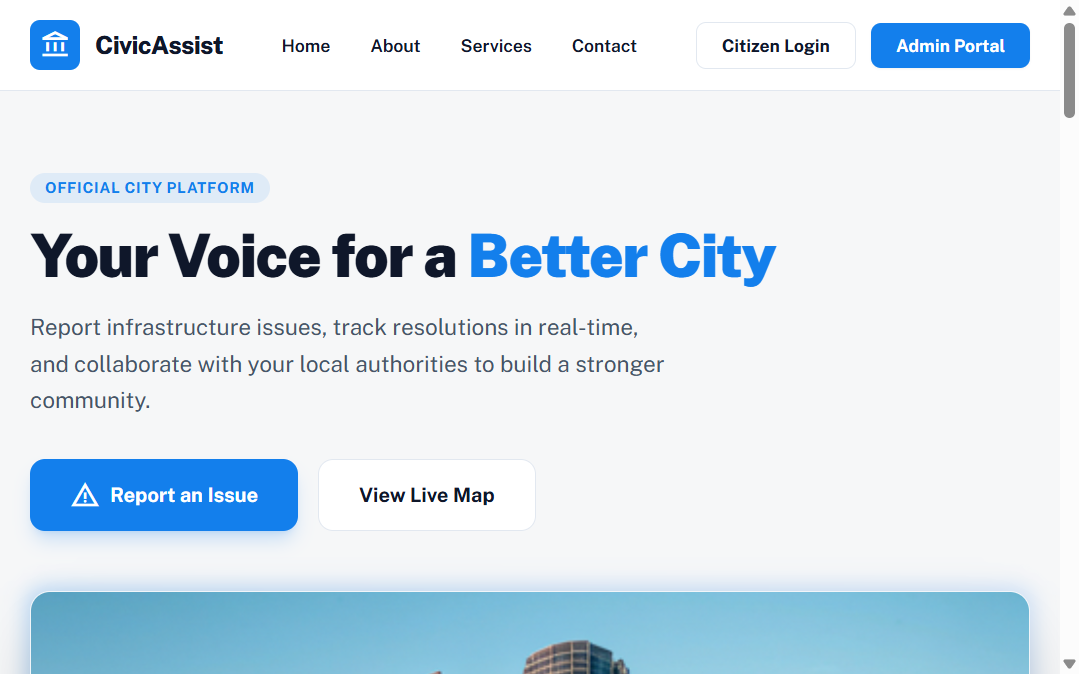
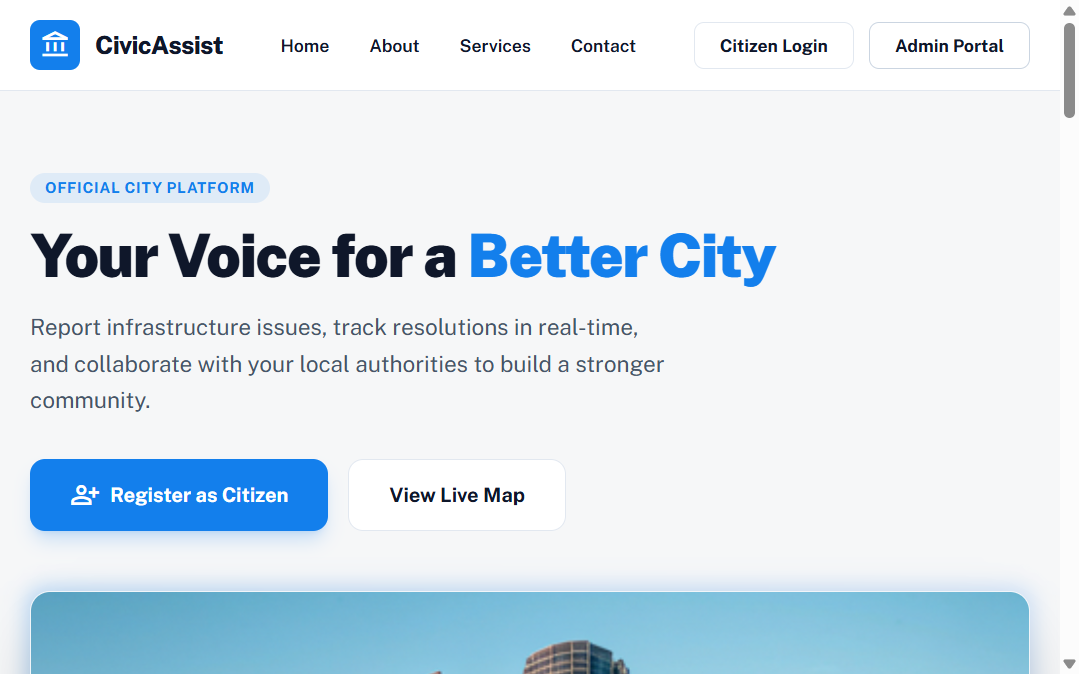
Refresh screenshots for all main pages

diff --git a/README.md b/README.md
@@ -81,7 +81,7 @@ The project also integrates AI-based NLP techniques for analyzing user feedback 
 ---
 
 # 🖼 Screenshots
-The screenshots below are current application captures with consistent landscape framing (1079 x 674). The `complaint-form.png` capture shows the citizen registration page.
+The screenshots below show the main application pages in consistent landscape framing (1079 x 674). Dashboard and management views use fictional sample data.
 
 <table style="width:100%; table-layout:fixed;">
   <tr>
@@ -90,8 +90,18 @@ The screenshots below are current application captures with consistent landscape
       <p style="text-align:center; font-size:0.95rem; margin:8px 0 0;">Homepage</p>
     </td>
     <td style="padding:8px; vertical-align:top; width:50%;">
-      <img src="screenshots/complaint-form.png" alt="Citizen Registration" width="100%" />
+      <img src="screenshots/citizen-register.png" alt="Citizen Registration" width="100%" />
       <p style="text-align:center; font-size:0.95rem; margin:8px 0 0;">Citizen Registration</p>
+    </td>
+  </tr>
+  <tr>
+    <td style="padding:8px; vertical-align:top; width:50%;">
+      <img src="screenshots/citizen-login.png" alt="Citizen Login" width="100%" />
+      <p style="text-align:center; font-size:0.95rem; margin:8px 0 0;">Citizen Login</p>
+    </td>
+    <td style="padding:8px; vertical-align:top; width:50%;">
+      <img src="screenshots/citizen-dashboard.png" alt="Citizen Dashboard" width="100%" />
+      <p style="text-align:center; font-size:0.95rem; margin:8px 0 0;">Citizen Dashboard</p>
     </td>
   </tr>
   <tr>
@@ -100,9 +110,46 @@ The screenshots below are current application captures with consistent landscape
       <p style="text-align:center; font-size:0.95rem; margin:8px 0 0;">Admin Login</p>
     </td>
     <td style="padding:8px; vertical-align:top; width:50%;">
-      <img src="screenshots/admin-registration.png" alt="Admin Registration" width="100%" />
+      <img src="screenshots/admin-register.png" alt="Admin Registration" width="100%" />
       <p style="text-align:center; font-size:0.95rem; margin:8px 0 0;">Admin Registration</p>
     </td>
+  </tr>
+  <tr>
+    <td style="padding:8px; vertical-align:top; width:50%;">
+      <img src="screenshots/admin-dashboard.png" alt="Admin Dashboard" width="100%" />
+      <p style="text-align:center; font-size:0.95rem; margin:8px 0 0;">Admin Dashboard</p>
+    </td>
+    <td style="padding:8px; vertical-align:top; width:50%;">
+      <img src="screenshots/admin-complaints.png" alt="Admin Complaints" width="100%" />
+      <p style="text-align:center; font-size:0.95rem; margin:8px 0 0;">Complaint Management</p>
+    </td>
+  </tr>
+  <tr>
+    <td style="padding:8px; vertical-align:top; width:50%;">
+      <img src="screenshots/admin-reports.png" alt="Department Reports" width="100%" />
+      <p style="text-align:center; font-size:0.95rem; margin:8px 0 0;">Department Reports</p>
+    </td>
+    <td style="padding:8px; vertical-align:top; width:50%;">
+      <img src="screenshots/admin-users.png" alt="User Management" width="100%" />
+      <p style="text-align:center; font-size:0.95rem; margin:8px 0 0;">User Management</p>
+    </td>
+  </tr>
+  <tr>
+    <td style="padding:8px; vertical-align:top; width:50%;">
+      <img src="screenshots/admin-workers.png" alt="Worker Management" width="100%" />
+      <p style="text-align:center; font-size:0.95rem; margin:8px 0 0;">Worker Management</p>
+    </td>
+    <td style="padding:8px; vertical-align:top; width:50%;">
+      <img src="screenshots/admin-settings.png" alt="Admin Settings" width="100%" />
+      <p style="text-align:center; font-size:0.95rem; margin:8px 0 0;">Admin Settings</p>
+    </td>
+  </tr>
+  <tr>
+    <td style="padding:8px; vertical-align:top; width:50%;">
+      <img src="screenshots/complaint-detail.png" alt="Complaint Details" width="100%" />
+      <p style="text-align:center; font-size:0.95rem; margin:8px 0 0;">Complaint Details</p>
+    </td>
+    <td style="padding:8px; vertical-align:top; width:50%;"></td>
   </tr>
 </table>
 
